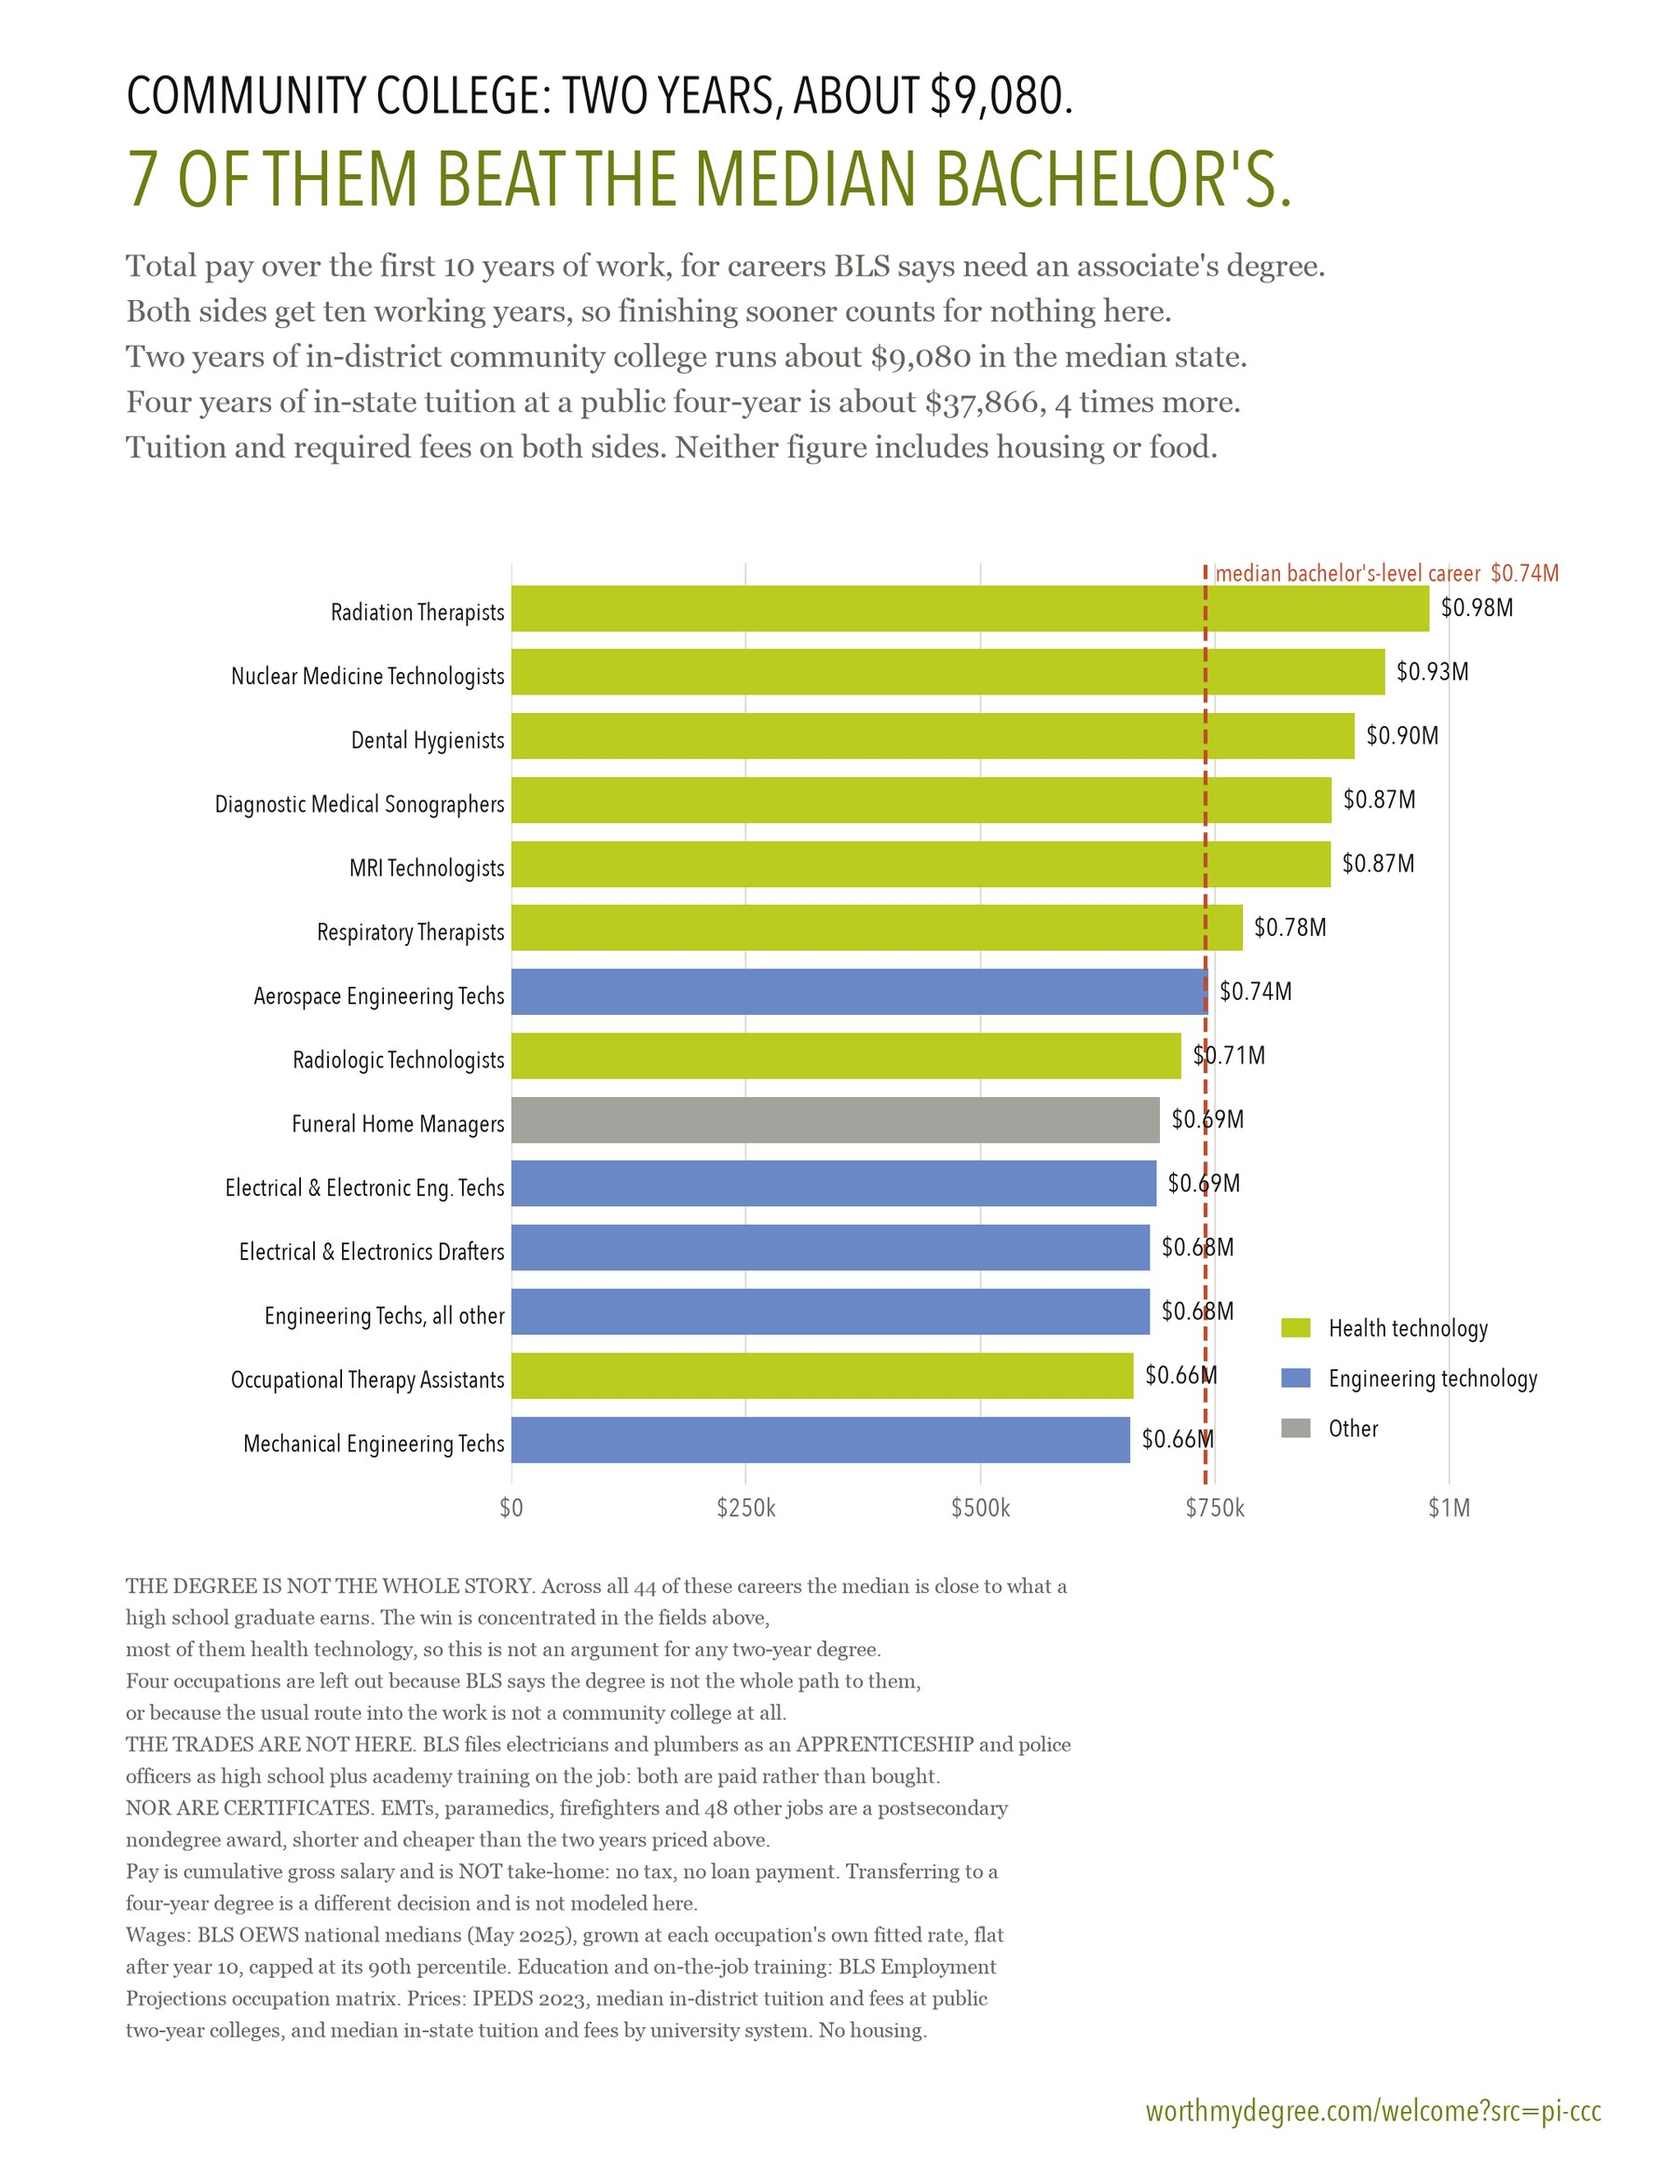
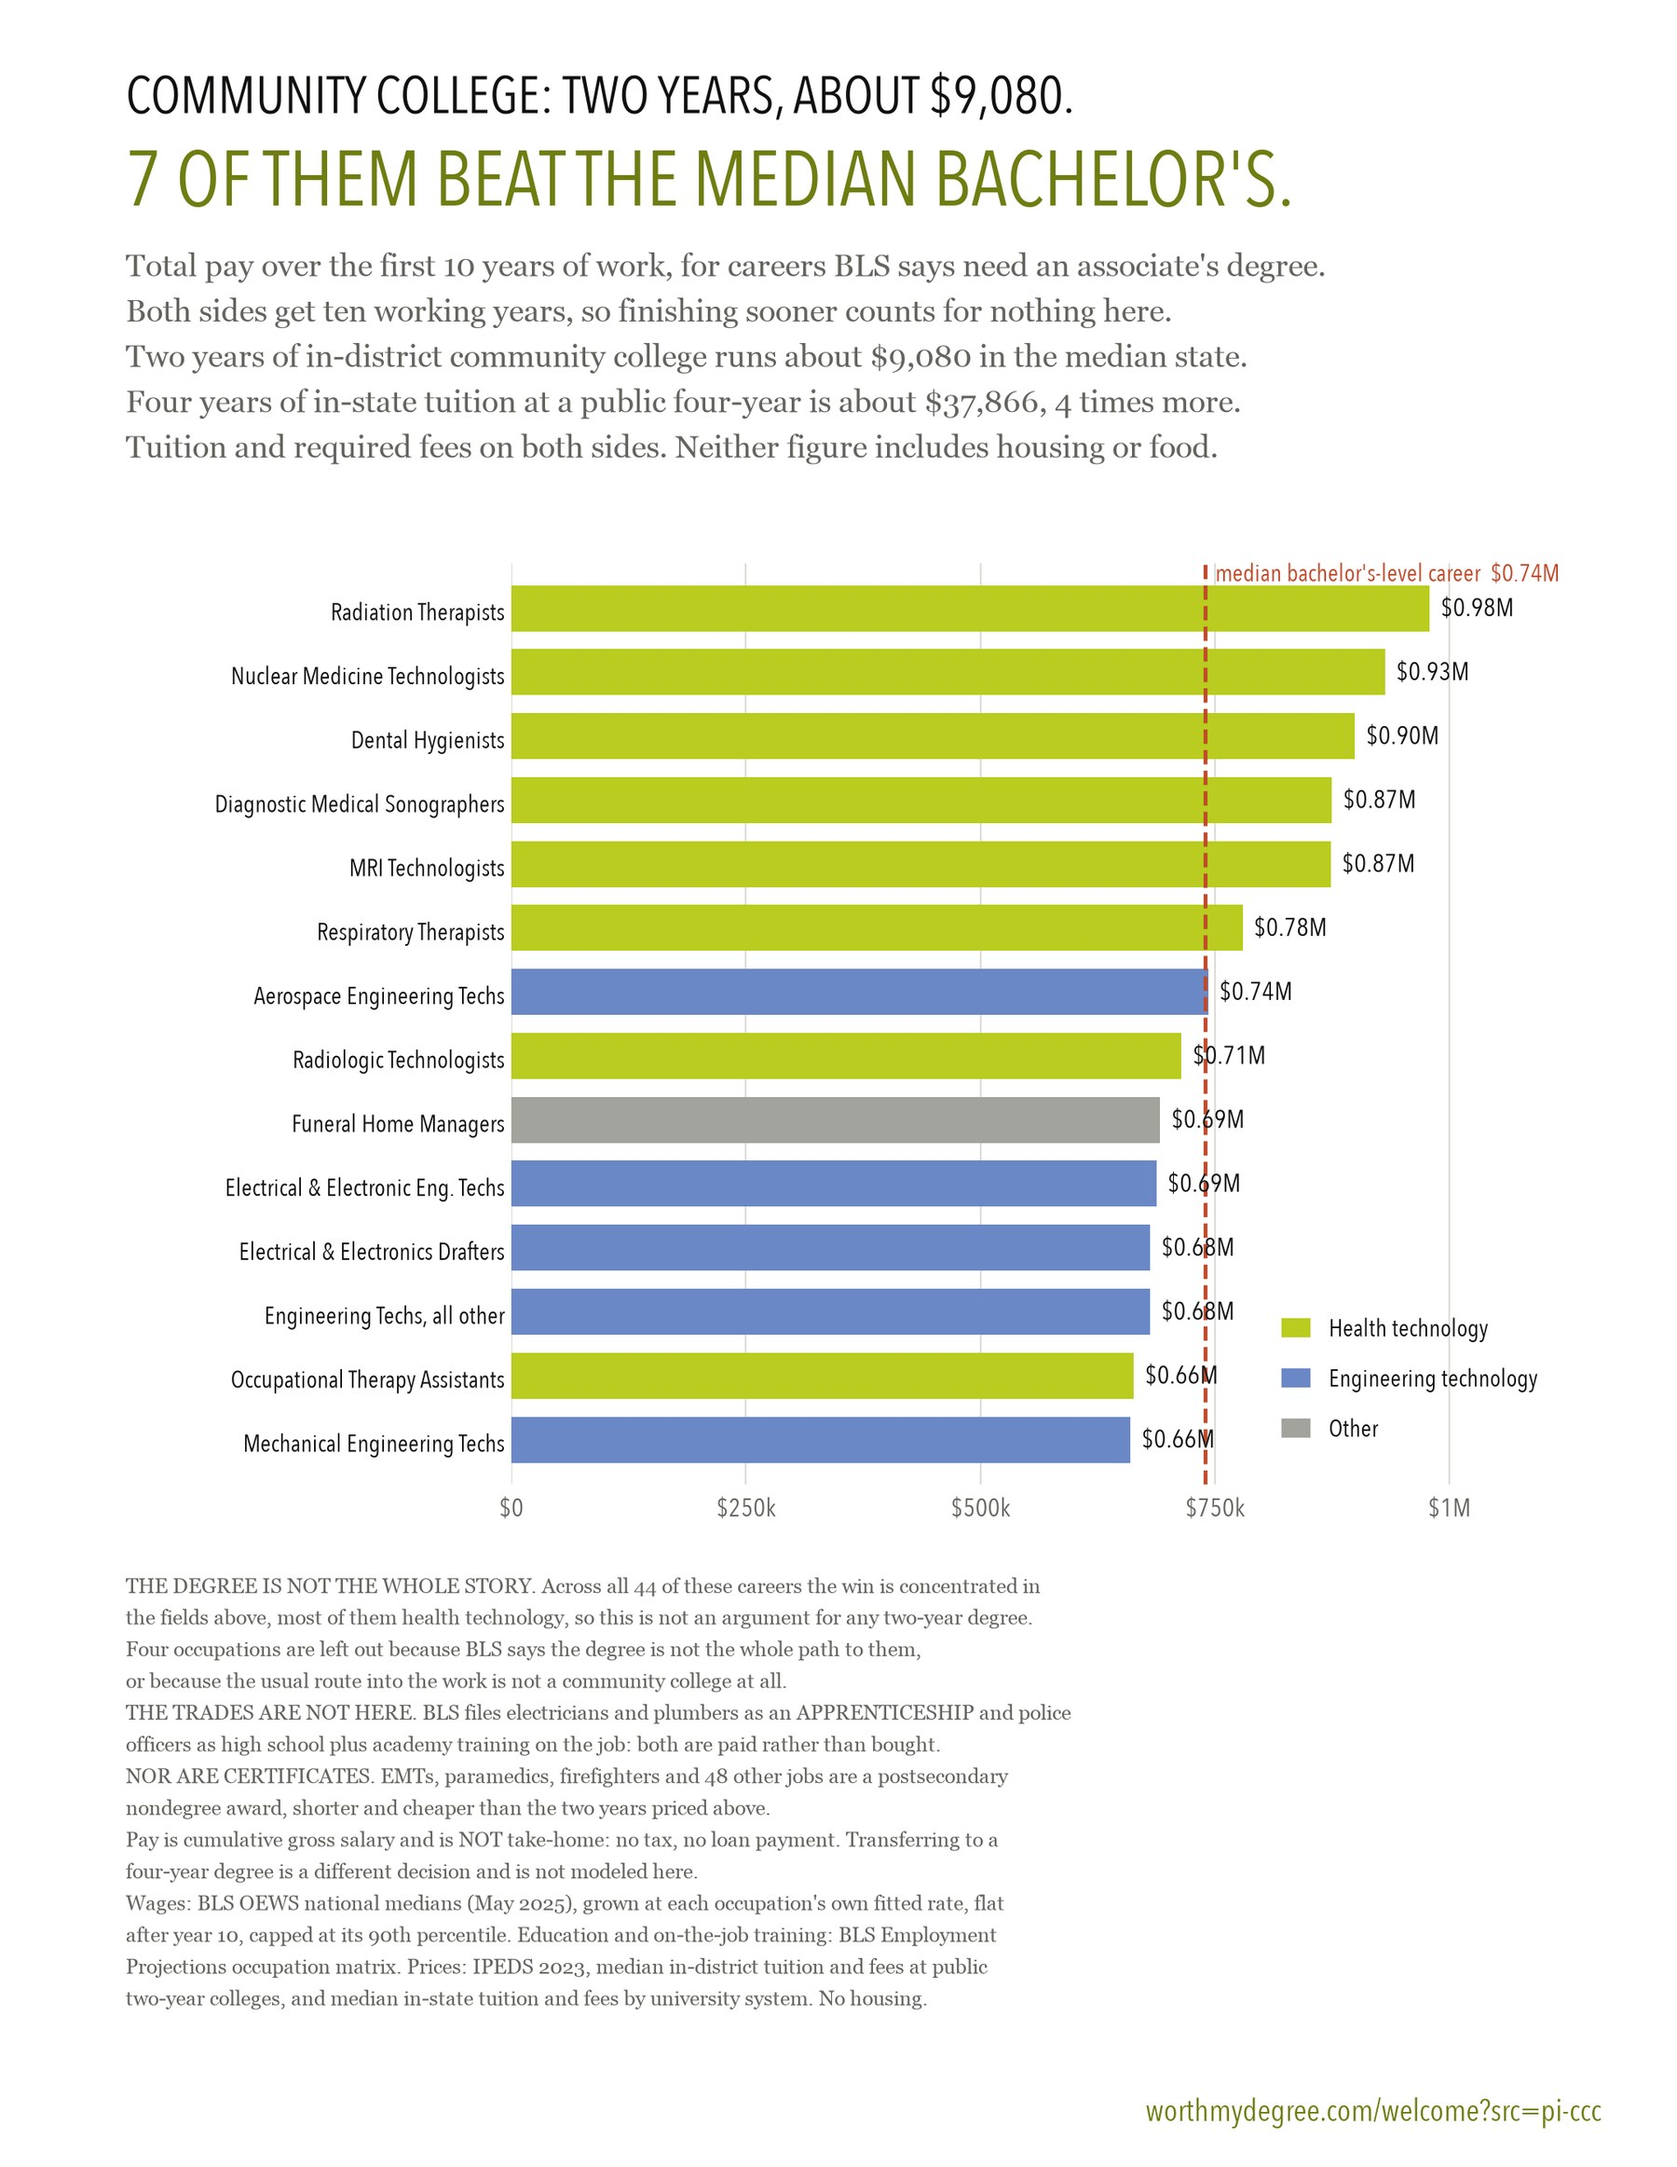
The community college chart stops claiming the median is near the baseline
Chapter 14's review found the footer on this chart contradicting the
chapter's own table by $126,000. "Across all 44 of these careers the median
is close to what a high school graduate earns" is hand-written editorial with
no computation behind it, and the model says otherwise: the median
associate's-level career pays $595,249 over its first ten working years
against the high school graduate's $468,914 over the twelve years from
eighteen that the same decade spans. The difference is $126,335, which is to
the dollar the median ten-year premium chapter 14 prints in the table facing
the picture.

Corrected on all three renders (single, pair and poster) by dropping the
comparison and keeping the half the model supports, which is the
concentration. The docstring reasoned from the same premise and now records
what it got wrong, the treatment AI_EXPOSURE_BY_SOC_GROUP's comment already
carries.

The book's render is rebuilt from the corrected script. The committed gallery
and landing JPEGs still carry the old sentence and need a rebuild and a
deploy, which is a published-picture change and is left to be taken
deliberately.

chart_palette.py joins UNPUBLISHED_SCRIPTS: it is a palette map that draws
nothing, and it has failed check_chart_prose since it landed with the
white-interior work this morning.

Claude-Session: https://claude.ai/code/session_012DeoHPSB76aTuNVN2G12N4

Changed region(s): [[0.0622, 0.7432, 0.6222, 0.96], [0.56, 0.7123, 0.6222, 0.7432]]

diff --git a/check_chart_prose.py b/check_chart_prose.py
@@ -115,6 +115,10 @@ UNPUBLISHED_SCRIPTS = {
     "forgiveness_map_chart.py": "one panel of forgiveness_map_pair.py, never published alone",
     "debt_by_major_chart.py": "withheld, see marketing/rejected-charts/",
     "reel_data.py": "an adapter, draws nothing",
+    "chart_palette.py": "a palette map, draws nothing. It swaps the dark "
+                        "charts' two brand series for light-ground "
+                        "counterparts BY VALUE, so the book's white "
+                        "interior can reuse the scripts that had no --light.",
     "work_map_chart.py": "built 2026-09-09, not yet published: no manifest, no "
                          "committed jpeg, and the phone render is unbuilt. Give it "
                          "a chart_code() tag and drop this line when it ships.",
